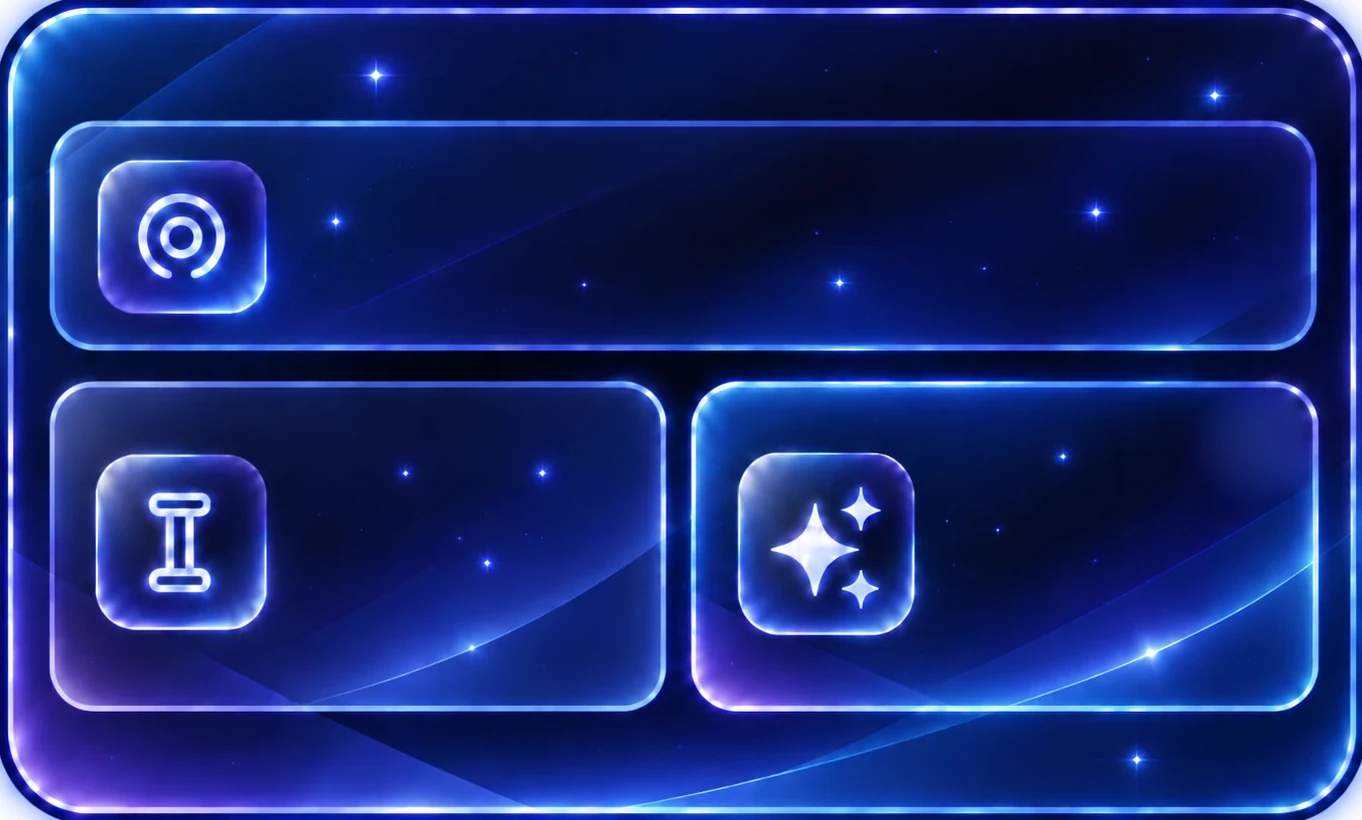
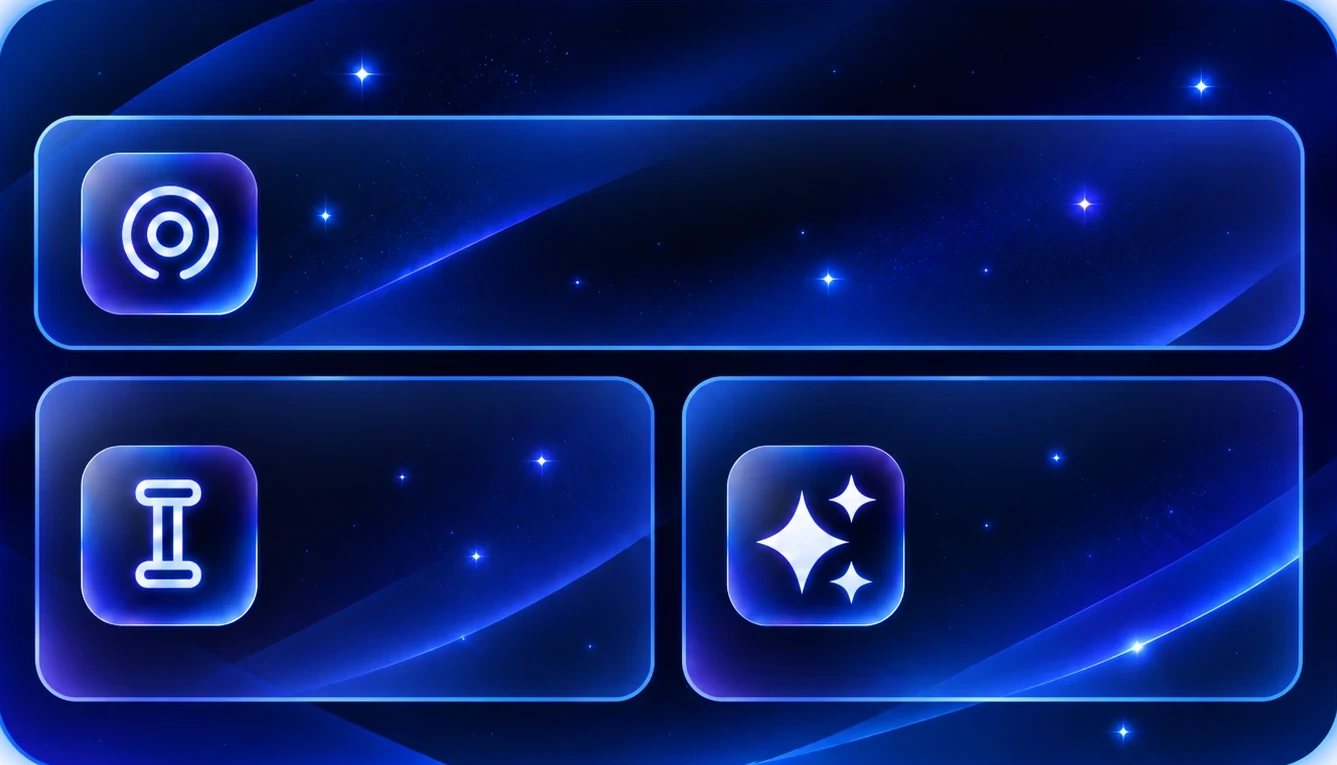
refresh scan mode artwork

diff --git a/src/linkedin/panel/panelStyles.ts b/src/linkedin/panel/panelStyles.ts
@@ -179,12 +179,12 @@ export function getPanelStyles(widthPx: number): string {
      top. Positions are fractions of the art, measured from it, so they track it at any width. */
   .lw-sm {
     position: relative;
-    aspect-ratio: 1362 / 820;
+    aspect-ratio: 1337 / 765;
     border-radius: 18px;
     overflow: hidden;
     isolation: isolate;
-    background: #0a1048;
-    box-shadow: 0 8px 22px rgba(30, 50, 170, 0.22);
+    background: #050a2e;
+    box-shadow: 0 6px 18px rgba(20, 35, 120, 0.18);
     color: #fff;
   }
   .lw-sm__art {
@@ -199,10 +199,10 @@ export function getPanelStyles(widthPx: number): string {
   /* The wide top panel, beside its icon. */
   .lw-sm__head {
     position: absolute;
-    left: 22.1%;
+    left: 21.6%;
     right: 6%;
-    top: 14.9%;
-    height: 27.3%;
+    top: 15.2%;
+    height: 30.1%;
     display: flex;
     flex-direction: column;
     justify-content: center;
@@ -221,12 +221,12 @@ export function getPanelStyles(widthPx: number): string {
   }
   .lw-sm__option {
     position: absolute;
-    top: 46.8%;
-    height: 39.6%;
+    top: 49.3%;
+    height: 41.8%;
     padding: 0;
     border: 0;
-    border-radius: 11px;
-    background: rgba(3, 6, 32, 0.28);
+    border-radius: 10px;
+    background: rgba(2, 5, 28, 0.2);
     font: inherit;
     color: inherit;
     text-align: left;
@@ -234,19 +234,20 @@ export function getPanelStyles(widthPx: number): string {
     transition: background-color 0.15s ease, box-shadow 0.15s ease;
   }
   .lw-sm__option--scroll {
-    left: 3.74%;
-    width: 45%;
+    left: 2.69%;
+    width: 46%;
   }
   .lw-sm__option--auto {
-    left: 50.95%;
-    width: 45.74%;
+    left: 51.08%;
+    width: 46.07%;
   }
   .lw-sm__option:hover {
-    background: rgba(3, 6, 32, 0.12);
+    background: rgba(2, 5, 28, 0.08);
   }
+  /* The art draws each panel's border; selection only brightens it in the same blue. */
   .lw-sm__option.is-selected {
     background: transparent;
-    box-shadow: inset 0 0 0 1.5px rgba(170, 195, 255, 0.95), 0 0 14px rgba(90, 135, 255, 0.55);
+    box-shadow: inset 0 0 0 1.5px rgba(96, 140, 255, 0.95), 0 0 8px rgba(70, 115, 255, 0.35);
   }
   .lw-sm__option:focus-visible {
     outline: 2px solid #c7d2fe;
@@ -255,7 +256,7 @@ export function getPanelStyles(widthPx: number): string {
   /* Beside the panel's icon, never over it. */
   .lw-sm__label {
     position: absolute;
-    left: 40%;
+    left: 41%;
     right: 5%;
     top: 50%;
     transform: translateY(-50%);
@@ -278,7 +279,7 @@ export function getPanelStyles(widthPx: number): string {
     border-radius: 50%;
     background: #fff;
     color: #3048e0;
-    box-shadow: 0 0 10px rgba(140, 170, 255, 0.75);
+    box-shadow: 0 0 6px rgba(120, 155, 255, 0.5);
   }
   .lw-sm__check svg {
     width: 62%;

diff --git a/src/linkedin/panel/ScanModeToggle.tsx b/src/linkedin/panel/ScanModeToggle.tsx
@@ -19,7 +19,7 @@ export function ScanModeToggle({ mode, onChange }: ScanModeToggleProps) {
   const art = typeof chrome !== "undefined" ? chrome.runtime?.getURL?.(ART) : undefined;
   return (
     <div className="lw-sm">
-      <img className="lw-sm__art" src={art || undefined} width={1362} height={820} alt="" draggable={false} />
+      <img className="lw-sm__art" src={art || undefined} width={1337} height={765} alt="" draggable={false} />
       <div className="lw-sm__head">
         <span className="lw-sm__title">Scan mode</span>
         <span className="lw-sm__subtitle">Choose how LinkWise analyzes the profile.</span>
